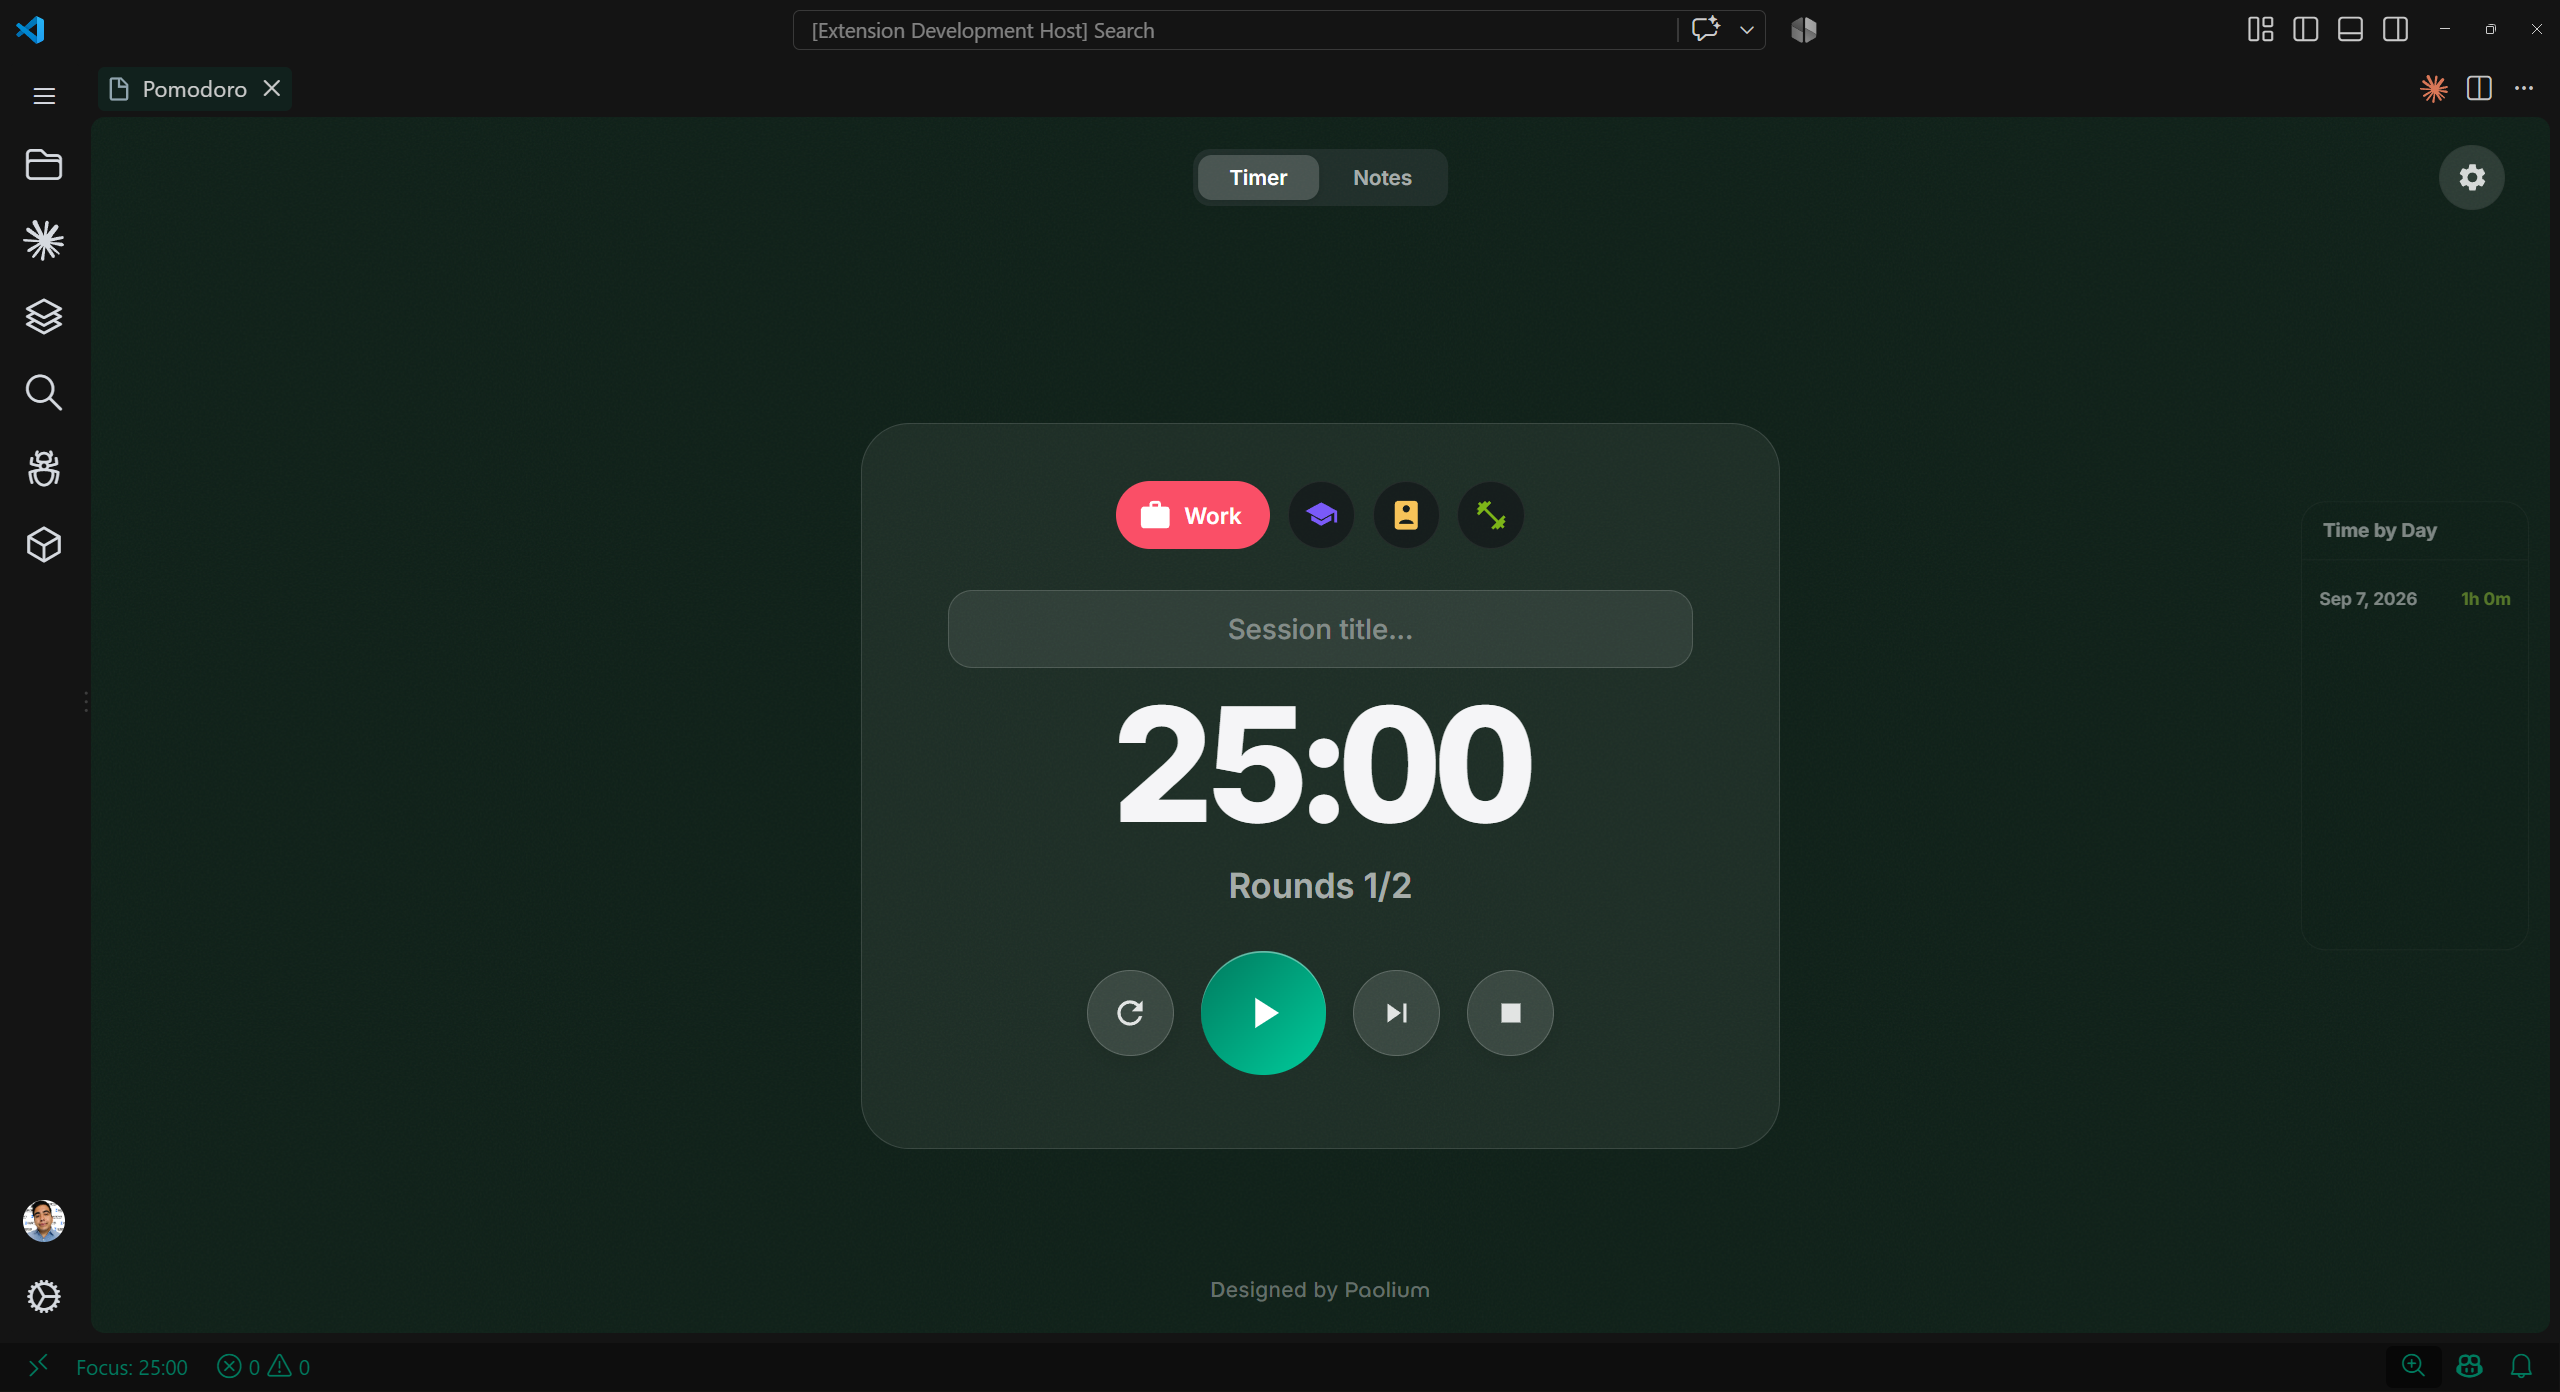
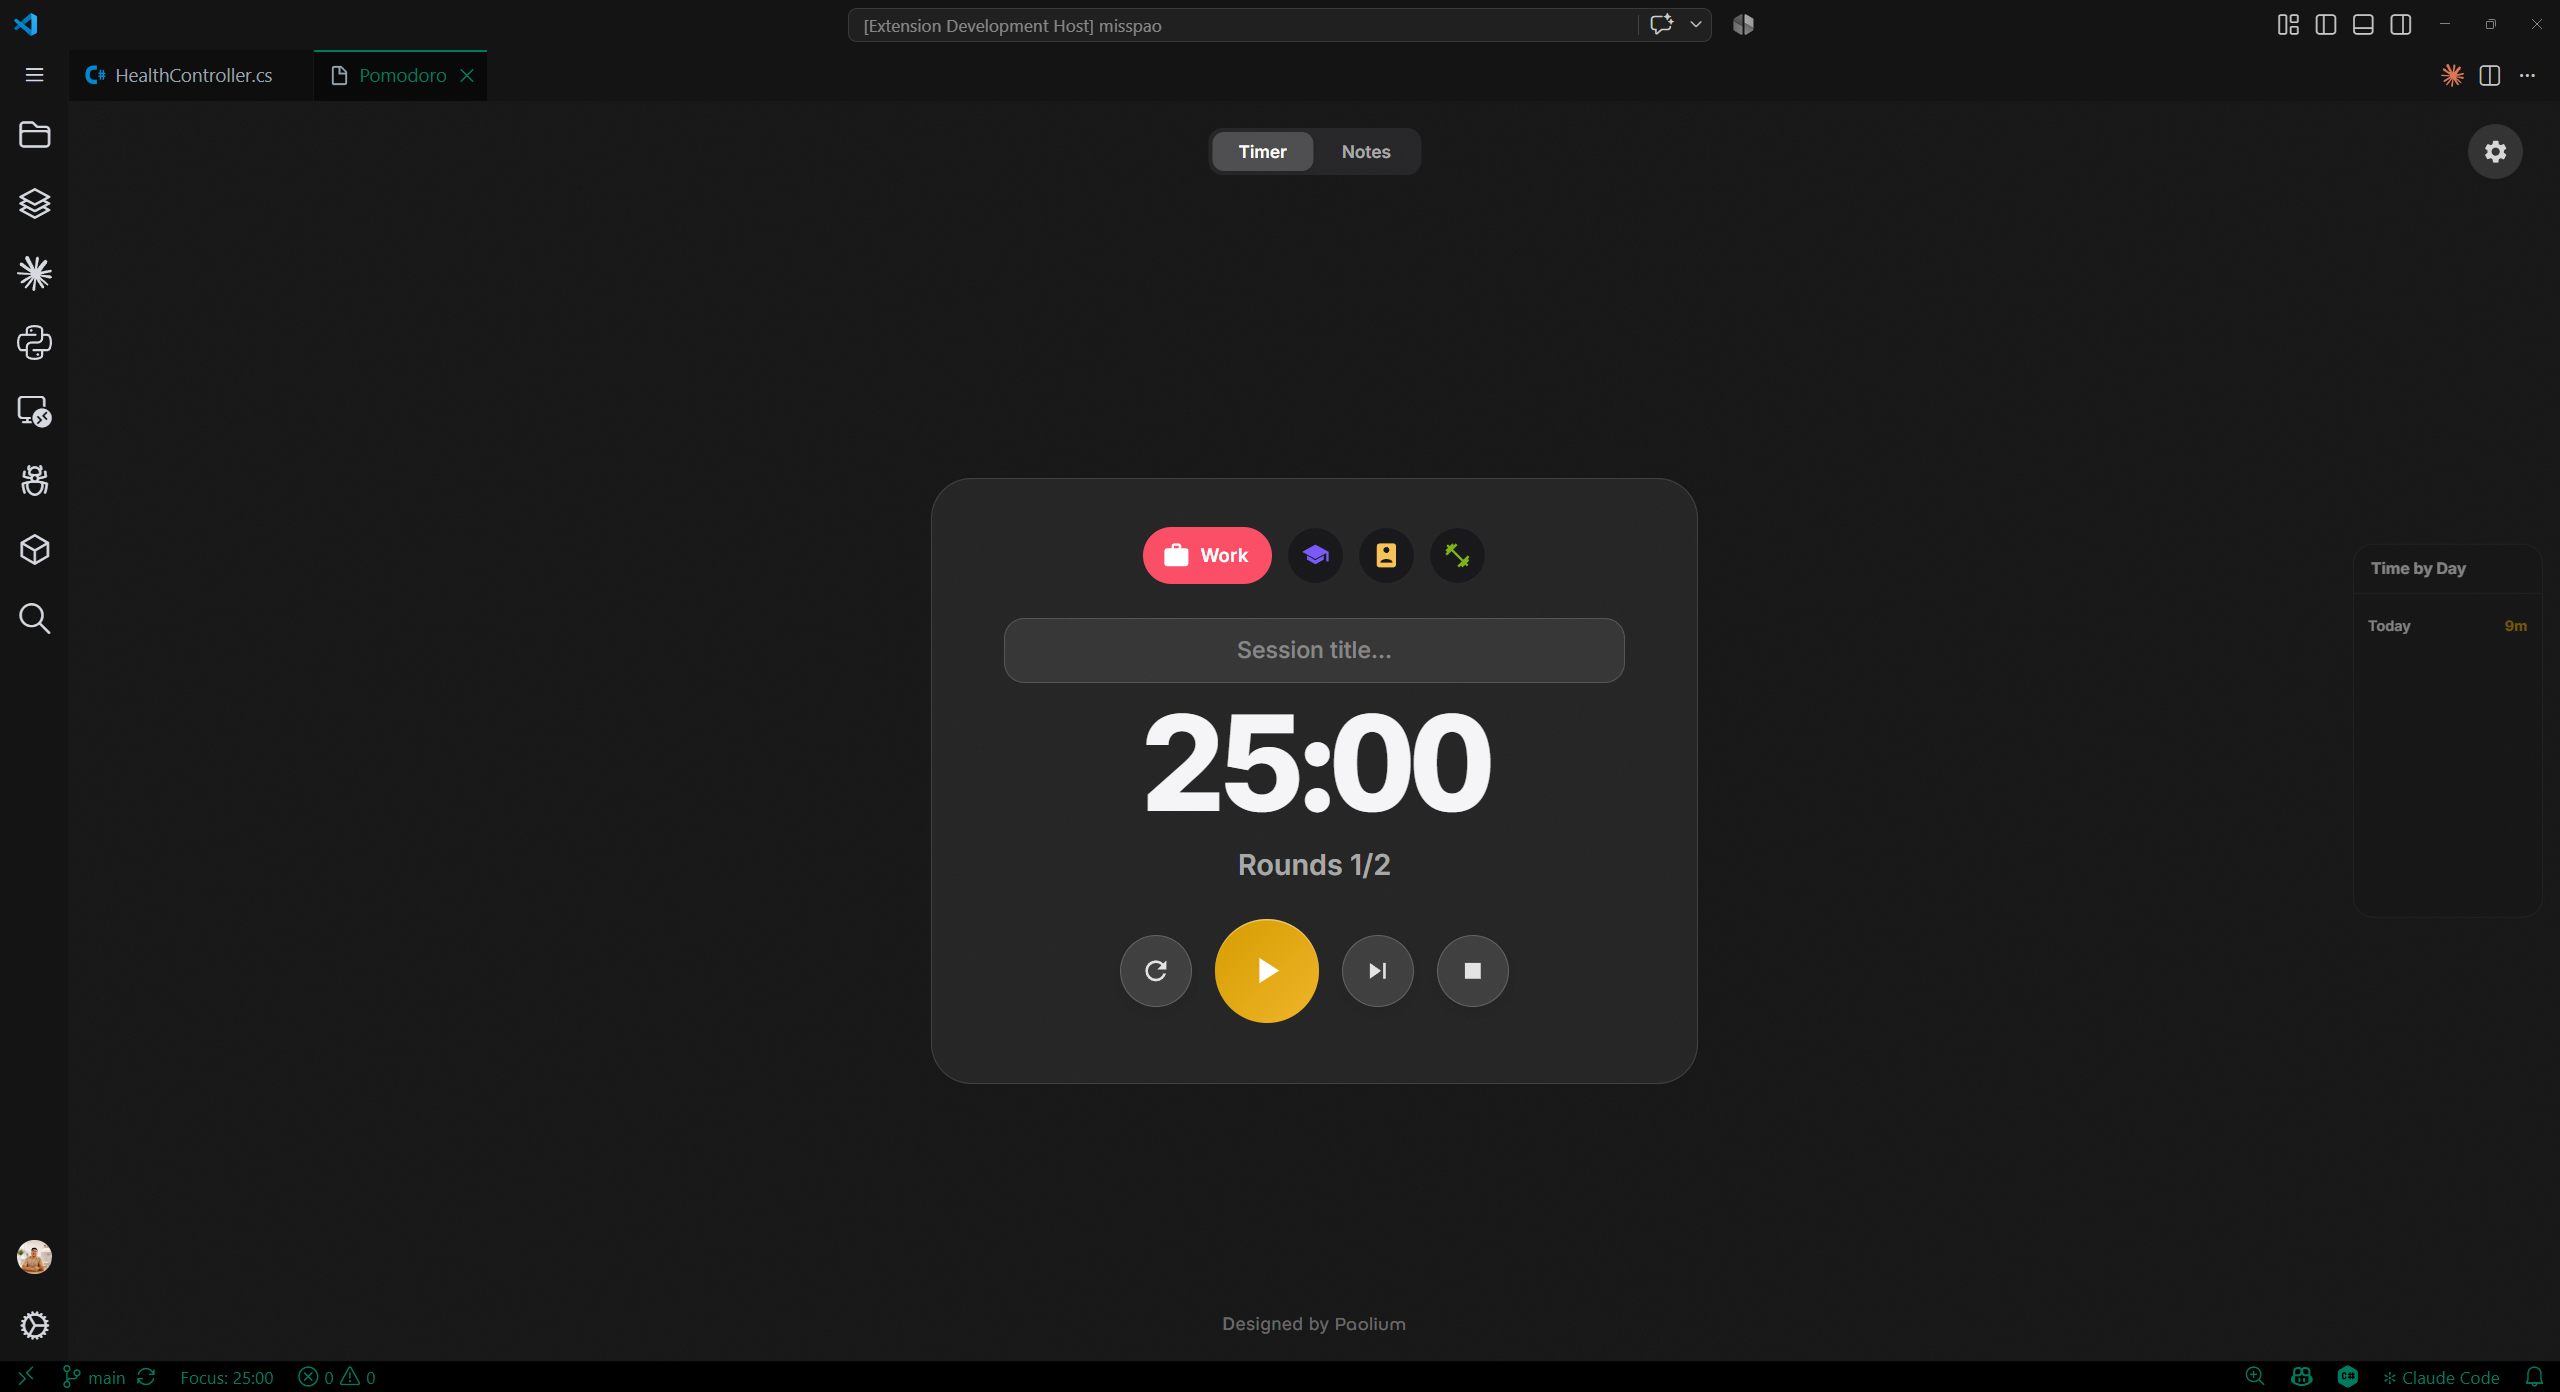
v3.2.0

diff --git a/src/panel.html b/src/panel.html
@@ -21,16 +21,16 @@ body {
  	background: transparent;
  	transition: color 0.3s ease;
  	image-rendering: -webkit-optimize-contrast;
---accent: #007A5E;
-  	--accent-2: #00CC9C;
-  	--accent-rgb: 0,122,94;
+--accent: #D69D00;
+  	--accent-2: #F0B429;
+  	--accent-rgb: 214,157,0;
   }
- .app.theme-paolium,  body.theme-paolium  { --accent:#007A5E; --accent-2:#00CC9C; --accent-rgb:0,122,94; }
+ .app.theme-paolium,  body.theme-paolium  { --accent:#D69D00; --accent-2:#F0B429; --accent-rgb:214,157,0; }
  .app.theme-sapphire, body.theme-sapphire { --accent:#0D71FD; --accent-2:#3D8FFF; --accent-rgb:13,113,253; }
  .app.theme-ruby,     body.theme-ruby     { --accent:#FA4F67; --accent-2:#FF6B85; --accent-rgb:250,79,103; }
- .app.theme-light,    body.theme-light    { --accent:#007A5E; --accent-2:#00CC9C; --accent-rgb:0,122,94; }
- .app.theme-graphite, body.theme-graphite { --accent:#F7C359; --accent-2:#FFD980; --accent-rgb:247,195,89; }
- .app.theme-carbon,   body.theme-carbon   { --accent:#7CB518; --accent-2:#9ED13A; --accent-rgb:124,181,24; }
+ .app.theme-light,    body.theme-light    { --accent:#D69D00; --accent-2:#F0B429; --accent-rgb:214,157,0; }
+ .app.theme-graphite, body.theme-graphite { --accent:#4D4D52; --accent-2:#6E6E75; --accent-rgb:77,77,82; }
+ .app.theme-carbon,   body.theme-carbon   { --accent:#95D700; --accent-2:#B4F02E; --accent-rgb:149,215,0; }
  .app.theme-amethyst, body.theme-amethyst { --accent:#7A5AF8; --accent-2:#9A7AFF; --accent-rgb:122,90,248; }
 /* Dark theme adjustments */
 .app.dark { color: #f5f5f7; }
@@ -60,12 +60,12 @@ body {
    Background Themes (from vscode-paolium-theme)
 
    transparent - No background (uses VSCODE editor background)
-   paolium     - Dark green (#0d1f17) with brand (#007A5E)
+   paolium     - Near black (#141414) with brand Paolium (#D69D00, a.k.a. "Goldenron")
    sapphire    - Deep blue (#061a36) with trust (#0D71FD)
    ruby        - Dark red (#1c0e15) with passion (#FA4F67)
    light       - Off-white (#f9f9f9) with purple (#7A5AF8)
-   graphite    - Dark gray (#1D1D21) with warmth (#F7C359)
-   carbon      - Near black (#1A1B1E) with energy (#7CB518)
+   graphite    - Pure black (#000000) with graphite gray (#4D4D52)
+   carbon      - Near black (#0a0a0a) with energy (#95D700)
    amethyst    - Near black (#0D1117) with intuition (#7A5AF8)
    ============================================================ */
 
@@ -196,7 +196,7 @@ body {
 
 .app.dark .session-info.phase-break,
 .session-info.phase-break,
-.session-info.phase-break * { color: #007A5E; }
+.session-info.phase-break * { color: #D69D00; }
 
 .controls { display: flex; gap: 16px; justify-content: center; align-items: center; }
 .btn { border: none; cursor: pointer; display: flex; align-items: center; justify-content: center; transition: all 0.18s ease; }
@@ -242,22 +242,22 @@ body {
 
 .bg-grid { display: grid; grid-template-columns: repeat(8, 1fr); gap: 12px; }
 .bg-option { aspect-ratio: 1; border-radius: 14px; cursor: pointer; border: 3px solid transparent; transition: all 0.2s ease; box-shadow: 0 3px 8px rgba(0,0,0,0.15); position: relative; overflow: hidden; }
-.bg-option.active { border-color: #007A5E; transform: scale(1.08); }
+.bg-option.active { border-color: #D69D00; transform: scale(1.08); }
 .bg-option:hover { transform: scale(1.08); }
 .bg-transparent { background: rgba(128,128,128,0.15); border: 2px dashed rgba(128,128,128,0.4); }
 .bg-transparent::after { content: 'VS'; position: absolute; inset: 0; display: flex; align-items: center; justify-content: center; font-size: 10px; font-weight: 700; color: rgba(128,128,128,0.5); }
-.bg-paolium { background: #0d1f17; }
-.bg-paolium::after { content: ''; position: absolute; right: 4px; top: 4px; width: 10px; height: 10px; border-radius: 50%; background: #007A5E; box-shadow: 0 0 6px #007A5E; }
+.bg-paolium { background: #141414; }
+.bg-paolium::after { content: ''; position: absolute; right: 4px; top: 4px; width: 10px; height: 10px; border-radius: 50%; background: #D69D00; box-shadow: 0 0 6px #D69D00; }
 .bg-sapphire { background: #061a36; }
 .bg-sapphire::after { content: ''; position: absolute; right: 4px; top: 4px; width: 10px; height: 10px; border-radius: 50%; background: #0D71FD; box-shadow: 0 0 6px #0D71FD; }
 .bg-ruby { background: #1c0e15; }
 .bg-ruby::after { content: ''; position: absolute; right: 4px; top: 4px; width: 10px; height: 10px; border-radius: 50%; background: #FA4F67; box-shadow: 0 0 6px #FA4F67; }
 .bg-light { background: #f9f9f9; }
-.bg-light::after { content: ''; position: absolute; right: 4px; top: 4px; width: 10px; height: 10px; border-radius: 50%; background: #007A5E; box-shadow: 0 0 6px #007A5E; }
-.bg-graphite { background: #241c10; }
-.bg-graphite::after { content: ''; position: absolute; right: 4px; top: 4px; width: 10px; height: 10px; border-radius: 50%; background: #F7C359; box-shadow: 0 0 6px #F7C359; }
+.bg-light::after { content: ''; position: absolute; right: 4px; top: 4px; width: 10px; height: 10px; border-radius: 50%; background: #D69D00; box-shadow: 0 0 6px #D69D00; }
+.bg-graphite { background: #000000; }
+.bg-graphite::after { content: ''; position: absolute; right: 4px; top: 4px; width: 10px; height: 10px; border-radius: 50%; background: #4D4D52; box-shadow: 0 0 6px #4D4D52; }
 .bg-carbon { background: #0a0a0a; }
-.bg-carbon::after { content: ''; position: absolute; right: 4px; top: 4px; width: 10px; height: 10px; border-radius: 50%; background: #7CB518; box-shadow: 0 0 6px #7CB518; }
+.bg-carbon::after { content: ''; position: absolute; right: 4px; top: 4px; width: 10px; height: 10px; border-radius: 50%; background: #95D700; box-shadow: 0 0 6px #95D700; }
 .bg-amethyst { background: #180f2e; }
 .bg-amethyst::after { content: ''; position: absolute; right: 4px; top: 4px; width: 10px; height: 10px; border-radius: 50%; background: #7A5AF8; box-shadow: 0 0 6px #7A5AF8; }
 
@@ -276,7 +276,7 @@ body {
 
 .resume-day { display: flex; justify-content: space-between; align-items: center; padding: 12px 14px; background: rgba(255,255,255,0.06); border: 1px solid rgba(255,255,255,0.08); border-radius: 11px; margin-bottom: 8px; }
 .resume-day-label { font-size: 14px; font-weight: 600; }
-.resume-day-time { font-size: 14px; font-weight: 700; color: #9ED13A; }
+.resume-day-time { font-size: 14px; font-weight: 700; color: #D69D00; }
 
 .overlay { position: fixed; inset: 0; background: rgba(0,0,0,0.35); opacity: 0; pointer-events: none; transition: opacity 0.3s ease; z-index: 50; }
 .overlay.visible { opacity: 1; pointer-events: all; }
@@ -429,8 +429,8 @@ body:has(.app.dark) .notes-empty { color: rgba(255,255,255,0.35); }
 .trash-note-restore, .trash-note-purge {
 	font-family: inherit; font-size: 11px; font-weight: 600; border: none; border-radius: 7px; padding: 5px 9px; cursor: pointer; transition: all 0.15s ease;
 }
-.trash-note-restore { background: rgba(var(--accent-rgb, 0,122,94),0.14); color: var(--accent, #007A5E); }
-.trash-note-restore:hover { background: rgba(var(--accent-rgb, 0,122,94),0.24); }
+.trash-note-restore { background: rgba(var(--accent-rgb, 214,157,0),0.14); color: var(--accent, #D69D00); }
+.trash-note-restore:hover { background: rgba(var(--accent-rgb, 214,157,0),0.24); }
 .trash-note-purge { background: rgba(255,94,114,0.12); color: #ff5e72; }
 .trash-note-purge:hover { background: rgba(255,94,114,0.22); }
 
@@ -642,11 +642,11 @@ const lightBackgrounds = ['light'];
    // ============================================================
    const backgroundGradients = {
    	transparent: '',
-   	paolium:  '#0d1f17',
+   	paolium:  '#141414',
    	sapphire: '#061a36',
    	ruby:     '#1c0e15',
    	light:    '#f9f9f9',
-   	graphite: '#241c10',
+   	graphite: '#000000',
    	carbon:   '#0a0a0a',
    	amethyst: '#180f2e'
    };

diff --git a/README.md b/README.md
@@ -24,30 +24,29 @@ Press `CTRL + SHIFT + P` to open the Command Palette and search:
 
 ## Configuration
 
-| Setting | Default | Description |
-|---------|---------|-------------|
-| `pomodoro.focusDuration` | 25 | Focus duration in minutes |
-| `pomodoro.breakDuration` | 5 | Break duration in minutes |
-| `pomodoro.roundsPerSession` | 2 | Number of rounds per session |
-| `pomodoro.backgroundImage` | aurora | Background theme |
-| `pomodoro.enableSounds` | true | Enable sound alerts |
+| Setting                     | Default | Description                  |
+| --------------------------- | ------- | ---------------------------- |
+| `pomodoro.focusDuration`    | 25      | Focus duration in minutes    |
+| `pomodoro.breakDuration`    | 5       | Break duration in minutes    |
+| `pomodoro.roundsPerSession` | 2       | Number of rounds per session |
+| `pomodoro.backgroundImage`  | aurora  | Background theme             |
+| `pomodoro.enableSounds`     | true    | Enable sound alerts          |
+
+## Brand Colors
+
+| Theme    | Color     | Notes                                                                                                               |
+| -------- | --------- | ------------------------------------------------------------------------------------------------------------------- |
+| Paolium  | `#D69D00` | Official brand color (background `#141414`). The shade is known as **Goldenron**; its official name is **Paolium**. |
+| Carbon   | `#95D700` | Carbon theme accent                                                                                                 |
+| Graphite | `#4D4D52` | Graphite theme accent, on a pure black (`#000000`) background                                                       |
 
 ## Previews
 
 ### Timer
 ![Pomodoro](https://github.com/Paolium/vscode-paolium-pomodoro/blob/main/media/pomodoro-1.png?raw=true)
 
+### Notes
 ![Pomodoro](https://github.com/Paolium/vscode-paolium-pomodoro/blob/main/media/pomodoro-2.png?raw=true)
-
-![Pomodoro](https://github.com/Paolium/vscode-paolium-pomodoro/blob/main/media/pomodoro-3.png?raw=true)
-
-![Pomodoro](https://github.com/Paolium/vscode-paolium-pomodoro/blob/main/media/pomodoro-4.png?raw=true)
-
-### Time By Day
-![Pomodoro](https://github.com/Paolium/vscode-paolium-pomodoro/blob/main/media/pomodoro-6.png?raw=true)
-
-### Settings
-![Pomodoro](https://github.com/Paolium/vscode-paolium-pomodoro/blob/main/media/pomodoro-7.png?raw=true)
 
 ## Author
 **Ing. Christian Gómez Simón**  

diff --git a/changelog.md b/changelog.md
@@ -1,5 +1,13 @@
 # Changelog
 
+## v3.2.0
+### Changed
+- New Paolium brand color (`#D69D00`, a gold shade also known as Goldenron) for the Paolium and Light themes, the break phase, and the selected background highlight
+- Paolium theme now uses a near-black background (`#141414`) instead of dark green
+- Graphite theme now uses a pure black background with a graphite gray (`#4D4D52`) accent
+- Carbon theme accent updated to a brighter green (`#95D700`)
+- Time by Day totals are now shown in the Paolium color instead of green
+
 ## v3.1.0
 ### Fixed
 - Notes no longer lose their size when reopening the panel or adding a new note (the previous resize logic used to shrink every note a little more each time)
